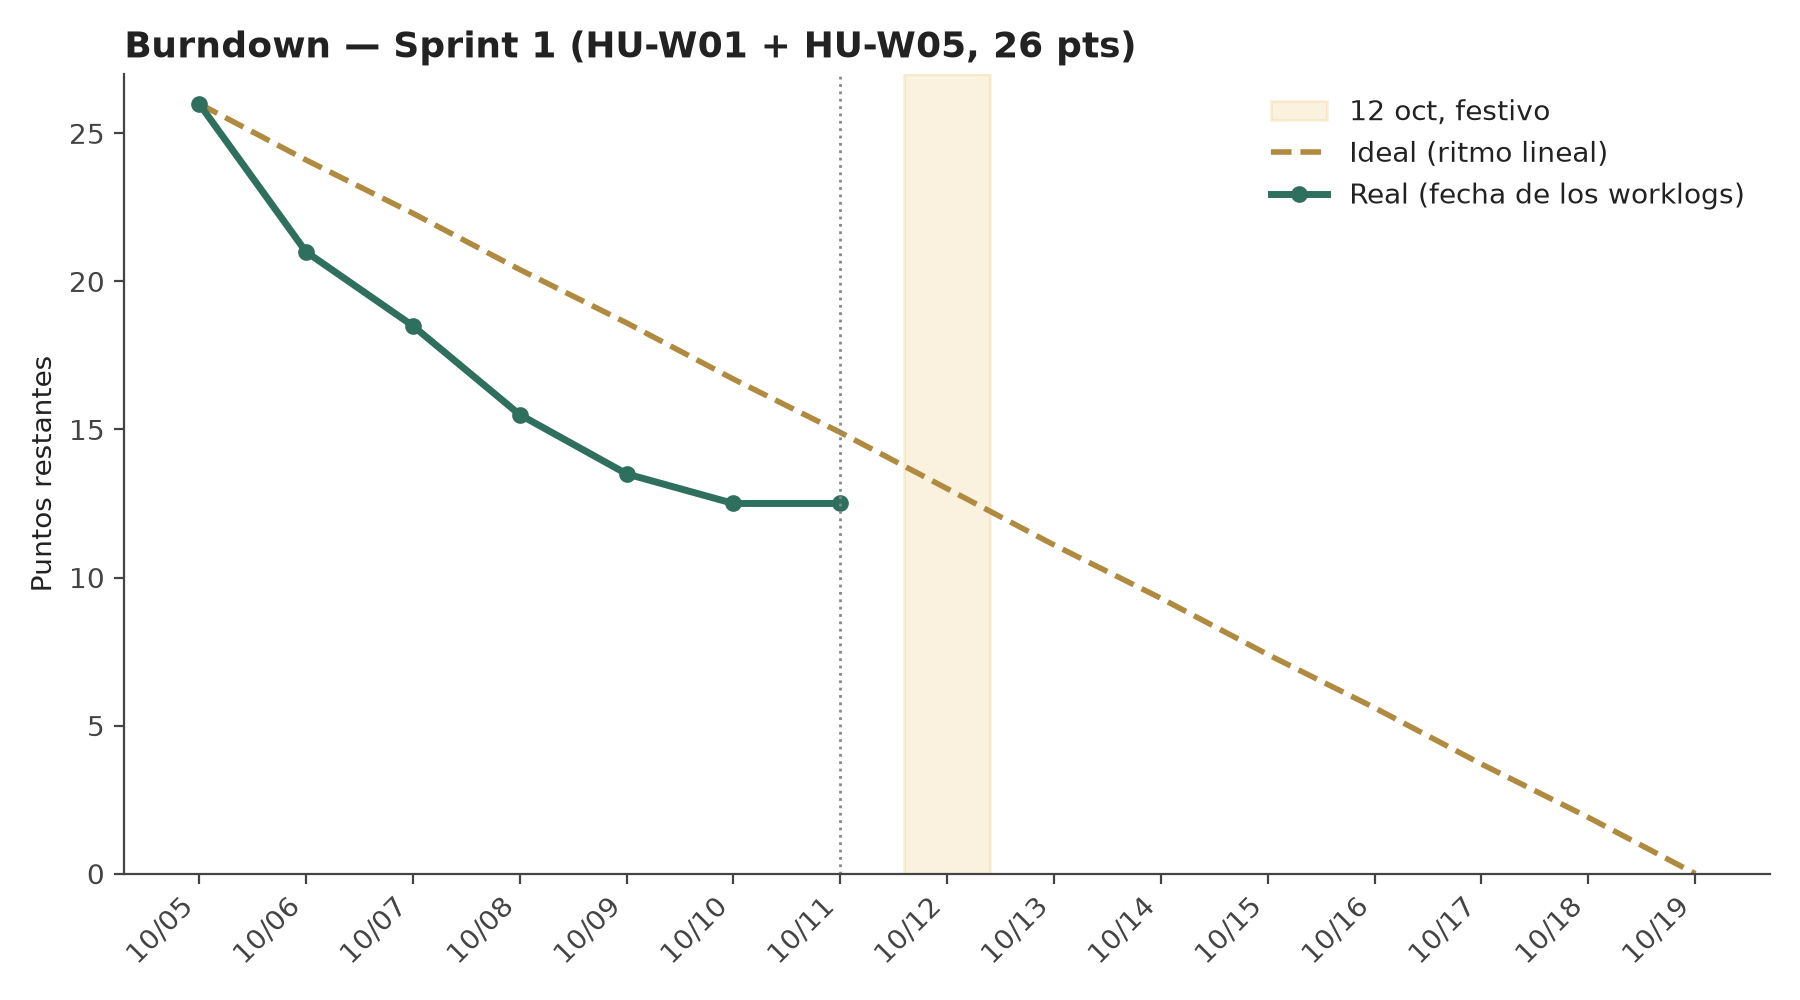
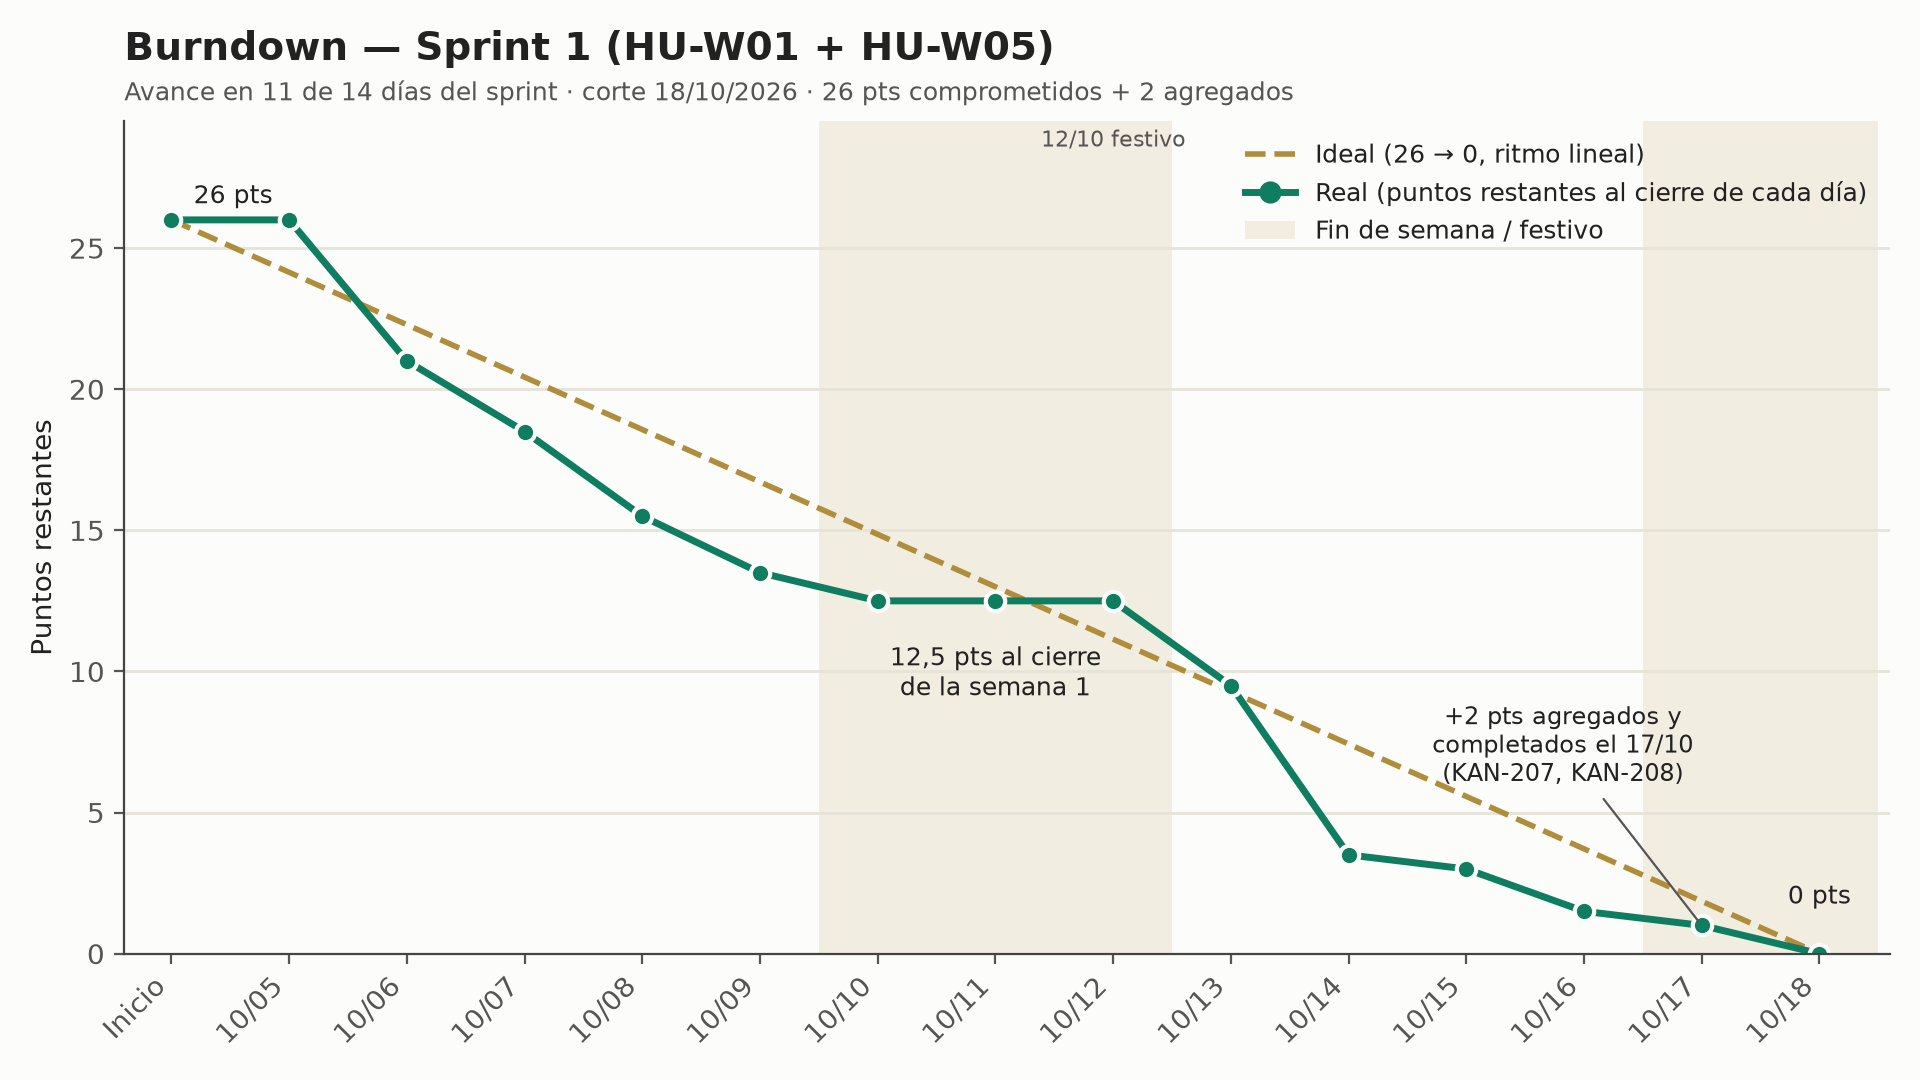
docs(tests): KAN-24 actualiza burndown, velocity y business value del Sprint 1
Regenera los tres gráficos con los datos de Jira al 18-oct (cierre del sprint):
- Burndown: avance en 11 de 14 días; 26 pts comprometidos + 2 agregados
  (KAN-207, KAN-208). Fecha de avance = último worklog; sin worklog, la
  resolución de la tarea.
- Velocity: planeado vs real acumulado por semana (13 / 26 vs 13,5 / 28).
- Value: las 13 historias suman 100 %; entregado 23 % (HU-W01 y HU-W05).

metricas-sprint-1.md documenta datos, metodología y salvedades (historias
KAN-24/KAN-28 aún en "Tareas por hacer" y KAN-166 abierta bajo KAN-28).

diff --git a/docs/evidencias/metricas-sprint-1.md b/docs/evidencias/metricas-sprint-1.md
@@ -1,61 +1,82 @@
 # Métricas del Sprint 1 — metodología y trazabilidad
 
-Fuente: tablero Jira **KAN**, proyecto Solventa, sprint `KAN Sprint 1` (id 2, 2026-10-05 a 2026-10-19).
-Generado el 2026-10-11 (semana 1 del sprint). Nada de lo que sigue es inventado para el gráfico:
-todos los números vienen de campos reales de Jira, leídos vía API (`acli` / MCP Atlassian Rovo).
+Fuente: tablero Jira **KAN**, proyecto Solventa, sprint `KAN Sprint 1` (id 2; en Jira empieza el 2026-10-05 00:00 y
+termina el 2026-10-18 23:59, hora de Bogotá: 14 días). Regenerado el 2026-10-18 (cierre del sprint; primera versión
+el 2026-10-11). Nada de lo que sigue es inventado para el gráfico: todos los números vienen de campos reales de
+Jira, leídos vía API (MCP Atlassian Rovo).
 
 ## Story Points por tarea (`customfield_10076`, "Story Points")
 
 - Las 21 tareas de HU-W01 (`KAN-120` a `KAN-190`) y las 5 de HU-W05 (`KAN-196` a `KAN-200`) no tenían
   puntos cargados: el campo no estaba habilitado en la pantalla del tipo de incidencia "Tarea" (solo
   existía en "Historia"). Se habilitó en Jira y se repartieron los 20 pts de `KAN-24` y los 6 pts de
-  `KAN-28` entre sus tareas, ponderado por complejidad relativa (ver tabla en el chat de la sesión;
-  suma exacta verificada contra cada HU padre).
+  `KAN-28` entre sus tareas, ponderado por complejidad relativa (suma exacta verificada contra cada HU padre).
+- **Alcance agregado durante el sprint:** `KAN-207` (ajustes de versión de Vite en el frontend) y `KAN-208`
+  (endpoints para insertar datos de prueba), 1 pt cada una, creadas el 17 de octubre dentro del sprint y sin historia
+  padre. Se cuentan en el burndown y la velocity como **alcance agregado** (+2 pts), separadas de los 26 pts
+  comprometidos, y **no aportan valor de negocio** (no tienen historia).
 
-## Business Value por tarea (`customfield_10112`, "Valor de negocio" — **distinto** de
-`customfield_10111`, que es el "Valor de negocio" a nivel de Historia)
+## Business Value por historia (`customfield_10111`) y por tarea (`customfield_10112`)
 
-- `customfield_10111` (13 Historias del backlog, suma exacta 100%) ya estaba asignado manualmente
-  por el equipo antes de esta sesión — no se tocó.
-- `customfield_10112` es un campo duplicado con el mismo nombre visible pero habilitado para "Tarea".
-  Se repartió el valor de cada HU (15% para HU-W01, 8% para HU-W05) entre sus tareas, **proporcional
-  a los Story Points** de cada una (`valor_tarea = (valor_HU / puntos_HU) × puntos_tarea`). Suma
-  exacta verificada: 15.0 y 8.0.
+- `customfield_10111` (13 Historias del backlog, suma exacta **100 %**) ya estaba asignado manualmente por el equipo
+  antes de esta sesión — no se tocó. Es la base del `value.png`: HU-W01, HU-W07, HU-W03 y HU-M01 15 %; HU-W04,
+  HU-W05 y HU-M04 8 %; HU-W02, HU-M02, HU-M05 y HU-M06 3 %; HU-W06 y HU-M03 2 %.
+- `customfield_10112` es un campo duplicado con el mismo nombre visible pero habilitado para "Tarea". Se repartió el
+  valor de cada HU (15 % para HU-W01, 8 % para HU-W05) entre sus tareas, **proporcional a los Story Points**
+  (`valor_tarea = (valor_HU / puntos_HU) × puntos_tarea`). Los valores guardados en Jira van redondeados a tres
+  decimales; el gráfico los recalcula sin redondear.
 
 ## Burndown (`burndown.png`)
 
-**No usa el estado nativo de Jira** (`resolutiondate`): las 25 tareas se marcaron "Finalizada" el
-mismo día (11 de octubre), por lo que ese campo habría mostrado una caída vertical en un solo día,
-sin reflejar el trabajo real distribuido durante la semana. En su lugar, se usó la fecha `started`
-del último worklog registrado en cada tarea (el worklog sí tiene fecha real de cuándo se hizo el
-trabajo, aunque se haya guardado en Jira después). Puntos restantes = 26 menos la suma acumulada de
-Story Points de las tareas completadas hasta esa fecha.
+**No usa el estado nativo de Jira** (`resolutiondate`) como fecha de avance: las tareas de la semana 1 se marcaron
+"Finalizada" el mismo día (11 de octubre), por lo que ese campo habría mostrado una caída vertical en un solo día, sin
+reflejar el trabajo real distribuido durante la semana. En su lugar se usó la fecha `started` del último worklog de
+cada tarea (el worklog sí tiene la fecha real de cuándo se hizo el trabajo, aunque se haya guardado después).
+Las 5 tareas sin worklog (`KAN-177`, `KAN-181`, `KAN-189`, `KAN-198`, `KAN-199`, marcadas con `*`) usan su
+`resolutiondate`. Puntos restantes = alcance del día menos la suma acumulada de Story Points de las tareas
+completadas hasta esa fecha (alcance: 26 pts hasta el 16 de octubre, 28 desde el 17).
 
 | Fecha | Completado ese día (pts) | Restante |
 |---|---|---|
-| 10-06 | 5.0 (KAN-120, 178, 180) | 21.0 |
-| 10-07 | 2.5 (KAN-140, 183) | 18.5 |
-| 10-08 | 3.0 (KAN-141, 142, 182) | 15.5 |
-| 10-09 | 2.0 (KAN-143, 184) | 13.5 |
-| 10-10 | 1.0 (KAN-144, 145) | 12.5 |
+| 10-06 | 5 (KAN-120, KAN-178, KAN-180) | 21 |
+| 10-07 | 2,5 (KAN-140, KAN-183) | 18,5 |
+| 10-08 | 3 (KAN-141, KAN-142, KAN-182) | 15,5 |
+| 10-09 | 2 (KAN-143, KAN-184) | 13,5 |
+| 10-10 | 1 (KAN-144, KAN-145) | 12,5 |
+| 10-13 | 3 (KAN-186, KAN-187, KAN-200) | 9,5 |
+| 10-14 | 6 (KAN-179, KAN-181\*, KAN-185, KAN-188, KAN-197, KAN-198\*) | 3,5 |
+| 10-15 | 0,5 (KAN-190) | 3 |
+| 10-16 | 1,5 (KAN-196) | 1,5 |
+| 10-17 | 2,5 (KAN-199\*, KAN-207, KAN-208) | 1 |
+| 10-18 | 1 (KAN-177\*, KAN-189\*) | 0 |
 
-Línea ideal: 26 → 0 pts en línea recta sobre los 14 días del sprint. 12 de octubre marcado como
-festivo (lunes festivo en Colombia).
+Hay avance en 11 de los 14 días del sprint (sin avance: 10-05, 10-11 y 10-12, festivo en Colombia). Línea ideal:
+26 → 0 pts en línea recta entre el inicio y el cierre del 18 de octubre; los sábados, domingos y el festivo van
+sombreados.
 
 ## Velocity (`velocity.png`)
 
-Semana 1 (5–11 oct): planeado 13 pts (mitad del compromiso, ritmo lineal) vs. real 13.5 pts
-completados — ligeramente adelantado. Semana 2 (12–19 oct) todavía en curso al momento de generar
-el gráfico.
+Acumulado semana a semana, con el plan repartido de forma lineal (13 pts por semana):
+
+| Semana | Planeado (acum.) | Real (acum.) | Real de la semana |
+|---|---|---|---|
+| 1 (5–11 oct) | 13 | 13,5 | 13,5 |
+| 2 (12–18 oct) | 26 | 28 (26 comprometidos + 2 agregados) | 14,5 |
 
 ## Business value entregado (`value.png`)
 
-De las 25 tareas repartidas, las que ya estaban "Finalizada" al 2026-10-11 suman:
-- HU-W01: 10.125% de 15% comprometido (12 de 21 tareas).
-- HU-W05: 0% de 8% comprometido (ninguna tarea arrancada).
-- Total semana 1: ≈10.1% de valor de negocio entregado, de 23% comprometido en el sprint.
+Las 26 tareas de HU-W01 y HU-W05 están "Finalizada", así que se entregó todo el valor comprometido en el sprint:
+HU-W01 15 % + HU-W05 8 % = **23 % del valor de negocio del proyecto**; el 77 % restante sigue en el backlog.
+
+## Salvedades
+
+- Las historias `KAN-24` (HU-W01) y `KAN-28` (HU-W05) siguen en estado "Tareas por hacer" en Jira aunque todas sus
+  tareas con puntos están finalizadas; el gráfico cuenta el valor por tareas, no por el estado de la historia.
+- `KAN-166` (W05-01, conciliación de pagos) cuelga de `KAN-28`, está en el Sprint 1, sin puntos y en "Tareas por
+  hacer". No pesa en el burndown ni en la velocity (0 pts) pero impide dar HU-W05 por cerrada en Jira.
+- El corte es el 18 de octubre; el sprint termina esa noche, así que lo registrado después no está en las imágenes.
 
 ## Cómo se generaron las imágenes
 
-`matplotlib` (Python), script ad hoc de la sesión (no versionado — los datos de origen y la
-metodología están en este archivo para poder regenerarlas).
+`matplotlib` (Python), script ad hoc de la sesión (no versionado): los datos de origen y la metodología están en este
+archivo para poder regenerarlas. Paleta verde `#0f7d5f` / dorado `#b08d3a`, validada para daltonismo y contraste.
